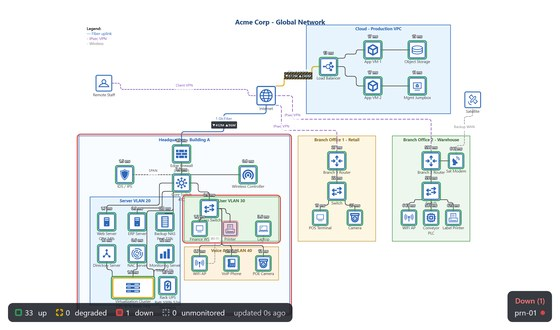
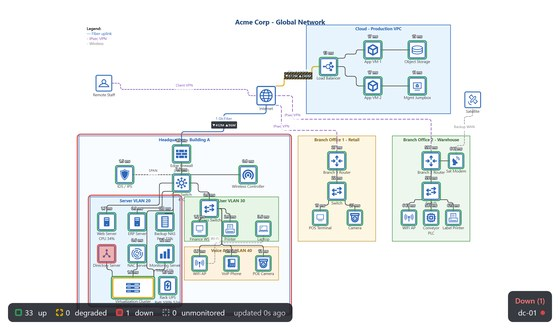
Make the directory server the down device, and rename the printer host
The wall's one red device was the printer. Two problems: prn-01 reads badly
blown up in a README hero, and a printer somebody switched off is the least
interesting outage on the board.

dc-01 is better on both counts. The hostname is unambiguous, a directory server
going quiet is something you would actually be paged for, and it sits inside
two nested zones - so the wall shows the alarm propagating out through the
server VLAN ring AND the building ring, which the printer never did.

The printer host is renamed prnt-01 wherever it still appears. It is a hidden
Device Details field, never drawn, so nothing moves visually - but it would
have surfaced again in the next image, and one extra letter costs nothing.

The 2 AM feed keeps its wall-power casualties (fin-ws-01, cam-hq-01) and
inherits dc-01, so the alerting side and the wall agree on who is down.

Changed region(s): [[0.1518, 0.5758, 0.5161, 0.9091], [0.8804, 0.9091, 0.9411, 0.9697]]

diff --git a/demo/alert-demo-api.js b/demo/alert-demo-api.js
@@ -1,6 +1,6 @@
 'use strict';
 // DEMO SHIM for AlertCanvas - static showcase, no server. The alarm state
-// mirrors the calm-day kiosk story: prn-01 is down (crit, device-down)
+// mirrors the calm-day kiosk story: dc-01 is down (crit, device-down)
 // and the virtualization cluster is running hot (warn, cpu). History carries
 // a week of cleared incidents including the power event the "2 AM version"
 // wall depicts. Timestamps are generated at request time so ages read fresh.
@@ -45,8 +45,8 @@
           value: null, peakValue: null, threshold: null, unit: '', breachCount: 42,
           clearCount: 0, firstBreachTs: ago(2600), raisedTs: ago(2540), clearedTs: null,
           ackedTs: null, clearReason: null, notifiedRaise: true, notifiedClear: false },
-        { id: 63, key: 'device-down:prn-01', state: 'active', severity: 'crit',
-          kind: 'device-down', host: 'prn-01', code: null, label: 'prn-01 down',
+        { id: 63, key: 'device-down:dc-01', state: 'active', severity: 'crit',
+          kind: 'device-down', host: 'dc-01', code: null, label: 'dc-01 down',
           value: null, peakValue: null, threshold: null, unit: '', breachCount: 42,
           clearCount: 0, firstBreachTs: ago(2590), raisedTs: ago(2530), clearedTs: null,
           ackedTs: null, clearReason: null, notifiedRaise: true, notifiedClear: false },
@@ -112,8 +112,8 @@
     ];
 
     const calmAlerts = () => [
-        { id: 41, key: 'device-down:prn-01', state: 'active', severity: 'crit',
-          kind: 'device-down', host: 'prn-01', code: null, label: 'prn-01 down',
+        { id: 41, key: 'device-down:dc-01', state: 'active', severity: 'crit',
+          kind: 'device-down', host: 'dc-01', code: null, label: 'dc-01 down',
           value: null, peakValue: null, threshold: null, unit: '',
           breachCount: 271, clearCount: 0,
           firstBreachTs: ago(8180), raisedTs: ago(8120), clearedTs: null,
@@ -215,7 +215,7 @@
         ['edge-fw', '10.20.0.1', 'up'], ['core-sw', '10.20.0.2', 'up'],
         ['intranet-01', '10.20.10.11', 'up'], ['nas-01', '10.20.10.20', 'up'],
         ['mon-01', '10.20.10.15', 'up'], ['vhost-cluster', '10.20.10.30', 'up'],
-        ['ups-01', '10.20.10.44', 'up'], ['prn-01', '10.20.20.60', 'down']
+        ['ups-01', '10.20.10.44', 'up'], ['dc-01', '10.20.10.13', 'down']
     ].concat(STORM ? [
         // Building A lost wall power: everything not on the UPS went with it.
         ['fin-ws-01', '10.20.20.51', 'down'], ['cam-hq-01', '10.20.20.80', 'down']
@@ -257,15 +257,15 @@
                 n(137, 65, 'CPU', 'syslog', 'raise', ago(2334)),
                 n(136, 65, 'CPU', 'email', 'raise', ago(2336)),
                 n(135, 64, 'cam-hq-01 down', 'email', 'raise', ago(2515)),
-                n(134, 63, 'prn-01 down', 'email', 'raise', ago(2525)),
+                n(134, 63, 'dc-01 down', 'email', 'raise', ago(2525)),
                 n(133, 62, 'fin-ws-01 down', 'syslog', 'raise', ago(2534)),
                 n(132, 62, 'fin-ws-01 down', 'email', 'raise', ago(2536)),
                 n(131, 61, 'Output source', 'syslog', 'raise', ago(2595)),
                 n(130, 61, 'Output source', 'email', 'raise', ago(2597))
             ] : [
                 n(120, 42, 'CPU', 'email', 'raise', ago(1490)),
-                n(119, 41, 'prn-01 down', 'syslog', 'raise', ago(8110)),
-                n(118, 41, 'prn-01 down', 'email', 'raise', ago(8112)),
+                n(119, 41, 'dc-01 down', 'syslog', 'raise', ago(8110)),
+                n(118, 41, 'dc-01 down', 'email', 'raise', ago(8112)),
                 n(117, 40, 'Output source', 'email', 'clear', ago(3 * 86400 - 8)),
                 n(116, 38, 'fin-ws-01 down', 'email', 'clear', ago(3 * 86400 - 905)),
                 n(115, 40, 'Output source', 'syslog', 'raise', ago(3 * 86400 + 2395)),

diff --git a/demo/build-fixtures.js b/demo/build-fixtures.js
@@ -156,9 +156,10 @@ Object.keys(byHost).sort().forEach((h) => {
     ping.devices[ip] = { state: 'up', latencyMs: latencyFor(ip), name: h };
 });
 // One red dot on an otherwise healthy wall. A board where everything is green
-// demonstrates nothing, and a printer somebody switched off at the wall is the
-// most ordinary outage there is.
-ping.devices[ipOf('prn-01')] = { state: 'down', latencyMs: null, name: 'prn-01' };
+// demonstrates nothing, and a server that has stopped answering is the outage
+// people actually care about - it also sits inside two nested zones, so the
+// wall shows the alarm propagating out through both rings.
+ping.devices[ipOf('dc-01')] = { state: 'down', latencyMs: null, name: 'dc-01' };
 fs.writeFileSync(path.join(DIR, 'status.json'), JSON.stringify(ping, null, 1) + '\n');
 
 // --- the 2 AM version: same board, same codes, a power event in Building A --
@@ -171,8 +172,8 @@ const setState = (host, state, lat) => {
     badPing.devices[ipOf(host)] = { state, latencyMs: lat, name: host };
 };
 setState('fin-ws-01', 'down', null);       // wall power, nothing behind it
-setState('prn-01', 'down', null);          // already the down one
 setState('cam-hq-01', 'down', null);       // unbacked PoE leg
+// dc-01 is already down from the calm feed above and stays down here.
 setState('wlc-01', 'degraded', 210);       // controller struggling on the brownout
 // Branches and cloud are deliberately left alone: the blast radius is Building
 // A and nowhere else, which is the thing a wall should make obvious at a glance.
